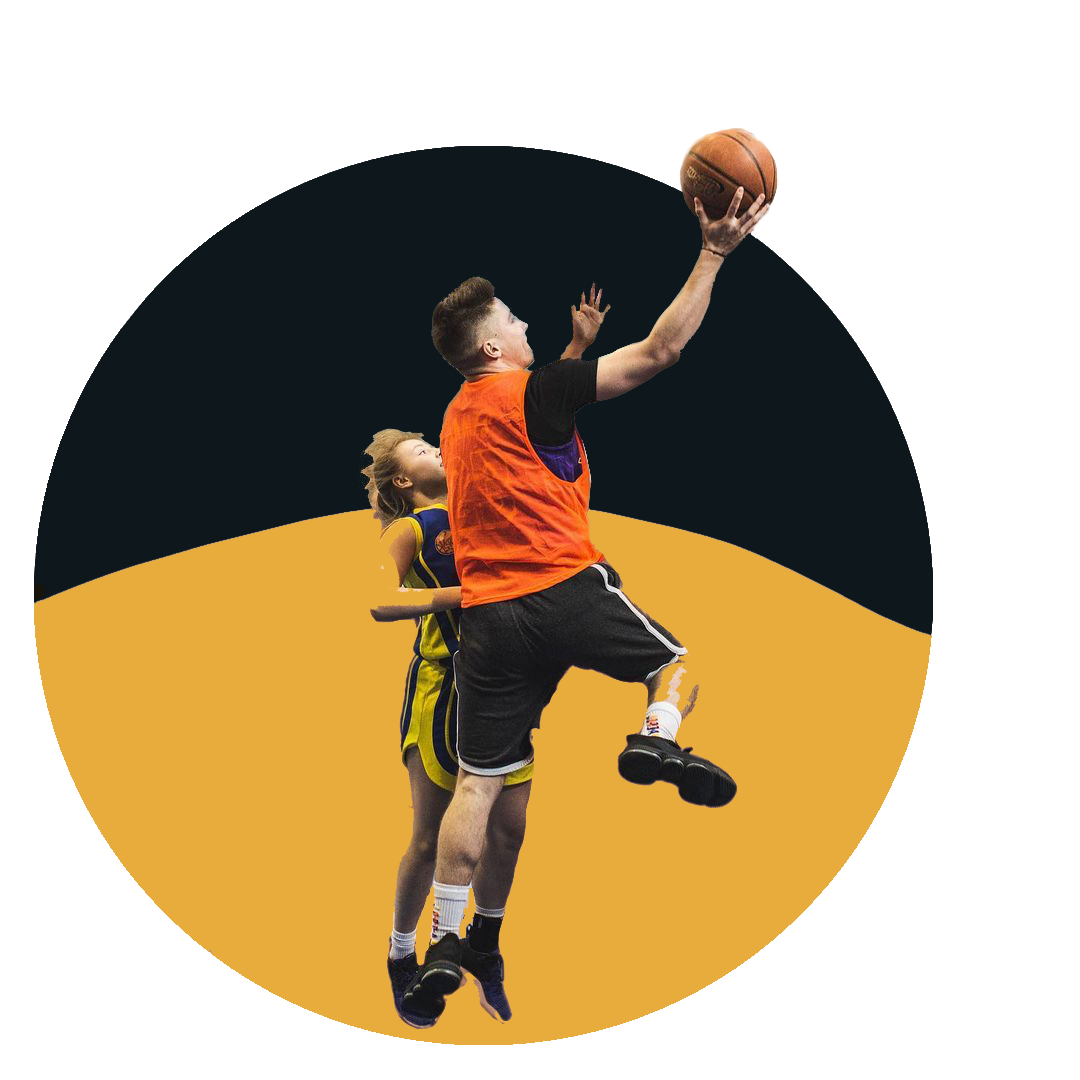
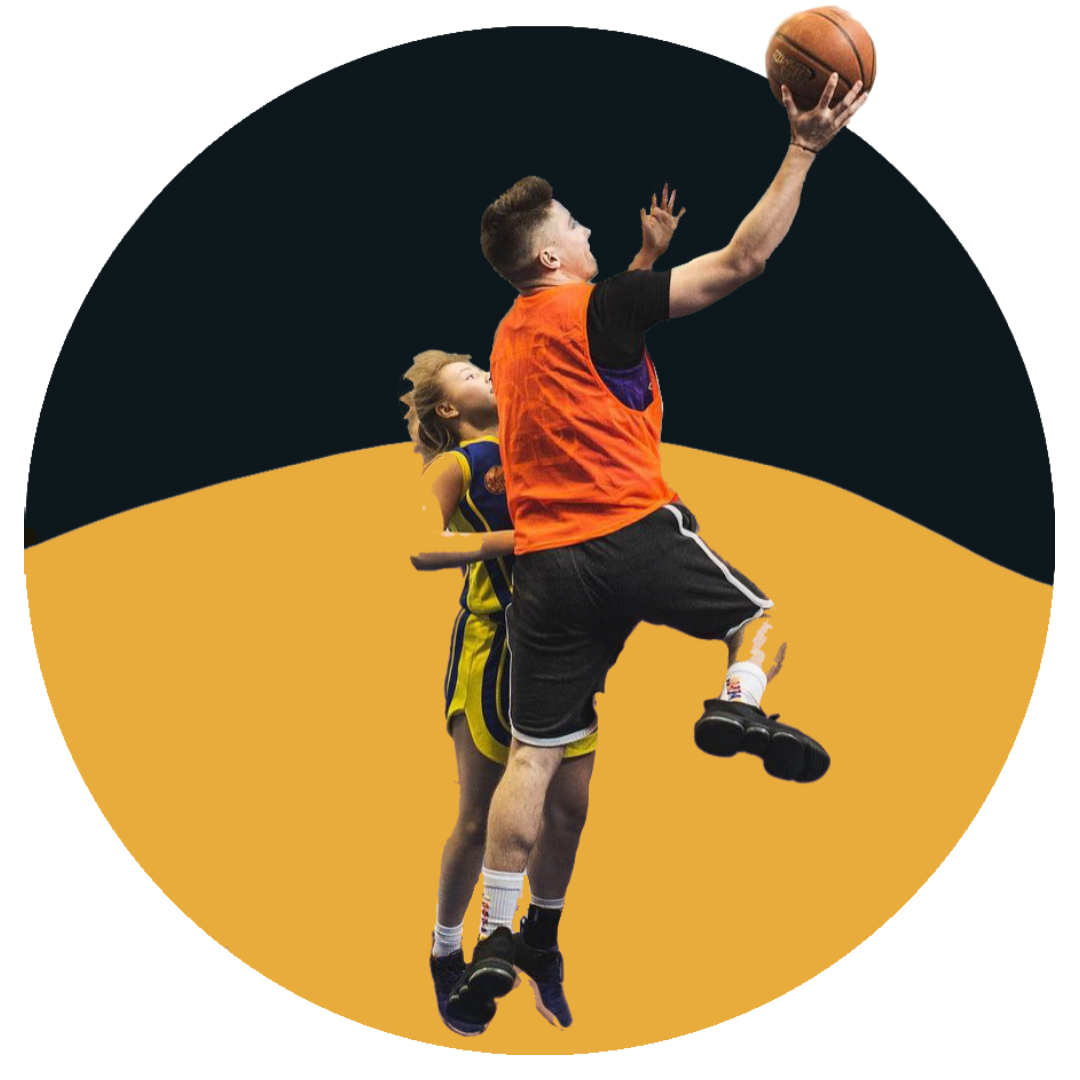
feat(home): :lipstick: mobile hero section and default mobile typography

diff --git a/frontend/src/components/home/Home.css b/frontend/src/components/home/Home.css
@@ -25,9 +25,7 @@
 }
 
 .hero-image {
-    width: 400px;
-    border-radius: 50%;
-    overflow: hidden;
+    width: 30%;
 }
 
 .hero-block-info {
@@ -74,6 +72,12 @@
     text-align: center;
 }
 
+@media all and (max-width: 720px) {
+    .main-section {
+        margin-top: 10vh;
+    }
+}
+
 @media all and (max-width: 1600px) {
     .dreamteam-member-list {
         flex-wrap: wrap;
@@ -84,6 +88,9 @@
     .hero-container {
         flex-direction: column;
         justify-content: center;
+    }
+    .hero-image {
+        width: 50%;
     }
 }
 

diff --git a/frontend/src/index.css b/frontend/src/index.css
@@ -91,3 +91,33 @@ h3::after {
 	grid-template-rows: auto 1fr auto;
 	grid-template-columns: 100%;
 }
+
+@media screen and (max-width: 720px){
+	h1 {
+		font-size: 48px;
+	}
+	
+	h2 {
+		font-size: 40px;
+	}
+	
+	h3 {
+		font-size: 30px;
+	}
+	
+	h4 {
+		font-size: 24px;
+	}
+	
+	h5 {
+		font-size: 20px;
+	}
+	
+	h6 {
+		font-size: 16px;
+	}
+	
+	p {
+		font-size: 14px;
+	}
+}
